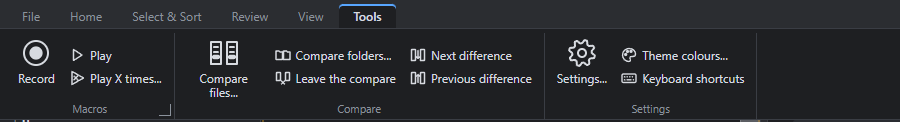
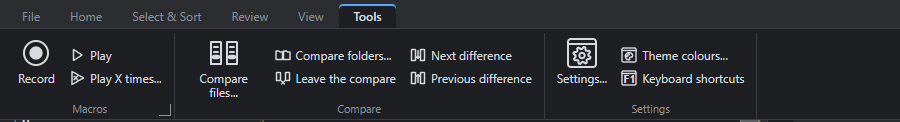
Plan 39: Theme colours is a panel (View > LexPen, Window > Panels); panel buttons framed everywhere; bookmark dot
Claude-Session: https://claude.ai/code/session_011ip4AMjLGVDRBeh8bEWE2k

Changed region(s): [[0.6222, 0.2951, 0.7156, 0.5656], [0.6844, 0.5656, 0.7156, 0.7131]]

diff --git a/docs/plans/39-PLAN-ribbon.md.images/ribbon-icons.js b/docs/plans/39-PLAN-ribbon.md.images/ribbon-icons.js
@@ -25,7 +25,6 @@ window.RIBBON_ICONS = (() => {
   const marked = dim('M2 3.5h12M2 8h12M2 12.5h6') + '<path d="M4 3.5h4M9 8h4M2.5 12.5h3" stroke-width="2.6"/>';
   const eraser = p('M11.6 8.6l3.2 3.2-2.6 2.6h-2l-1.4-1.4zM9.9 10.3l3.2 3.2');
   const sortLines = 'M2 3.5h7M2 7h5M2 10.5h3';
-  const keyboard = '<rect x="1" y="4" width="14" height="8.5" rx="1.5"/>' + [3.6, 6.2, 8.8, 11.4].map(x => dot(x, 6.8)).join('') + dot(3.6, 9.8) + p('M6.2 9.8h3.6') + dot(12.4, 9.8);
   const buttons = {
     // File
     save: ['Save', p('M2.5 2.5h9l2 2v9h-11zM5 2.5v3.5h5.5V2.5M4.5 13.5V9.5h7v4')],
@@ -100,16 +99,13 @@ window.RIBBON_ICONS = (() => {
     compareClose: ['Leave the compare', p('M1.5 2.5h4v8h-4zM10.5 2.5h4v8h-4zM6.5 11l3 3M9.5 11l-3 3')],
     compareNext: ['Next difference', p('M1.5 2.5h4v11h-4zM10.5 2.5h4v11h-4zM8 3.5v8M6 9.5l2 2 2-2')],
     comparePrevious: ['Previous difference', p('M1.5 2.5h4v11h-4zM10.5 2.5h4v11h-4zM8 12.5v-8M6 6.5l2-2 2 2')],
-    settings: ['Settings...', cog],
-    themeColours: ['Theme colours...', p('M8 1.5a6.5 6.5 0 1 0 0 13c1 0 1.5-.7 1.5-1.5s-.6-1.2-.6-2 .7-1.5 1.5-1.5h1.6a2.5 2.5 0 0 0 2.5-2.5C14.5 4 11.6 1.5 8 1.5z') + '<circle cx="4.7" cy="7.5" r=".9" fill="currentColor"/><circle cx="6.5" cy="4.5" r=".9" fill="currentColor"/><circle cx="10" cy="4.3" r=".9" fill="currentColor"/>'],
-    commands: ['Keyboard shortcuts', keyboard],
   };
   // The panels: per panel the drawing for 32 px (at 0.66 in the frame) and one drawn for 16 px in the frame's inside
   // (x 2.7 to 13.3, y 5.2 to 13.3: a pixel from the frame and the title bar), simpler, its lines not scaled.
   const panels = {
     folders: ['Folder', p('M1.5 3.5h4.5l1.5 1.5h7v8.5h-13z'), p('M3.2 6h3l1 1h5.3v5.8H3.2z')],
     searchView: ['Search', mag(6.8, 6.8, 4.5), '<circle cx="7.3" cy="8.6" r="2.6"/>' + p('M9.2 10.5l2.5 2.5')],
-    'bookmarks.pane': ['Bookmarks', p('M4 1.5h8v13l-4-3-4 3z'), p('M4.9 5.8h6.2v7.2L8 10.4 4.9 13z')],
+    'bookmarks.pane': ['Bookmarks', p('M4 1.5h8v13l-4-3-4 3z'), p('M4.9 5.8h6.2v7.2L8 10.4 4.9 13z') + '<circle cx="8" cy="9.4" r=".55" fill="currentColor" stroke="none"/>'],
     'outline.toggle': ['Outline', p('M3 3h5.5M5.5 6.5h6M5.5 10h6M8 13.5h6M3 3v7h2.5M3 6.5h2.5'), p('M3.6 6.2h4M6 9h6M6 12h6M3.6 6.2V12H6M3.6 9H6')],
     'highlight.list': ['Highlights', p(mark + 'M2 14.5h8'), p('M9.5 5.8l2.6 2.6-3.5 3.5H6.2V9.4zM3.4 12.9h5.2')],
     'csv.columns': ['Columns', '<rect x="1.5" y="2.5" width="13" height="11" rx="1"/>' + p('M1.5 6h13M6 2.5v11M10.5 2.5v11'), p('M3.4 8.2h9.2M6.4 5.8v7M9.6 5.8v7')],
@@ -125,6 +121,8 @@ window.RIBBON_ICONS = (() => {
     messages: ['Messages', p('M2 2.5h12v8.5H7.5L4.5 14v-3H2z'), p('M3.4 5.8h9.2v5H8.2l-2.6 2.2v-2.2H3.4z')],
     themesets: ['Theme sets', '<rect x="1.5" y="3.5" width="4" height="9" rx="1"/><rect x="6" y="3.5" width="4" height="9" rx="1" fill="currentColor" fill-opacity=".35"/><rect x="10.5" y="3.5" width="4" height="9" rx="1" fill="currentColor" fill-opacity=".8"/>',
       '<rect x="3.4" y="5.8" width="2.6" height="7" rx=".6"/><rect x="6.7" y="5.8" width="2.6" height="7" rx=".6" fill="currentColor" fill-opacity=".35"/><rect x="10" y="5.8" width="2.6" height="7" rx=".6" fill="currentColor" fill-opacity=".8"/>'],
+    themeColours: ['Theme colours', p('M8 1.5a6.5 6.5 0 1 0 0 13c1 0 1.5-.7 1.5-1.5s-.6-1.2-.6-2 .7-1.5 1.5-1.5h1.6a2.5 2.5 0 0 0 2.5-2.5C14.5 4 11.6 1.5 8 1.5z') + '<circle cx="4.7" cy="7.5" r=".9" fill="currentColor"/><circle cx="6.5" cy="4.5" r=".9" fill="currentColor"/><circle cx="10" cy="4.3" r=".9" fill="currentColor"/>',
+      p('M8 5.6a3.7 3.7 0 1 0 0 7.4c.6 0 .9-.4.9-.9s-.4-.7-.4-1.1.4-.9.9-.9h.9a1.4 1.4 0 0 0 1.4-1.4C11.7 7 10.1 5.6 8 5.6z') + '<circle cx="6.1" cy="9.2" r=".55" fill="currentColor"/><circle cx="7.6" cy="7.4" r=".55" fill="currentColor"/>'],
     projects: ['Projects', p('M1.5 3.5h4.5l1.5 1.5h7v8.5h-13z') + p('M4 9h8'), p('M3.2 6h3l1 1h5.3v5.8H3.2zM5 10.2h6')],
   };
   return { buttons, panels };
@@ -142,14 +140,15 @@ window.iconSvg = (body, size, panel, small) => {
     : frame + `<g transform="translate(2.72 3.97) scale(.66)" style="stroke-width: ${(w / 0.66).toFixed(2)}">${body}</g>`;
   return `<svg viewBox="0 0 16 16" width="${px}" height="${px}" fill="none" stroke="currentColor" stroke-width="${w}" stroke-linecap="round" stroke-linejoin="round">${inner}</svg>`;
 };
-// The icon of a label in the mock: a panel in View's panel groups, else a button ("Line" is Go to line and Select
+// The icon of a label in the mock: a panel's when the label is a panel's, else a button's ("Line" is Go to line and Select
 // line: the group tells).
 window.ribbonIcon = (label, group, size) => {
   const { buttons, panels } = window.RIBBON_ICONS;
-  if (window.PANEL_GROUPS.includes(group) || (group === 'Macros' && window.RIBBON_GROUP_TAB === 'View')) {
-    const hit = Object.values(panels).find(([l]) => l === label);
-    if (hit) return window.iconSvg(hit[1], size, true, hit[2]);
-  }
+  // A button that opens a panel is the panel's icon wherever it is (Tools: Settings..., Keyboard shortcuts, Theme
+  // colours...); the label without its dots. Macros is a panel in View only (in Tools a group of buttons).
+  const name = label.replace(/\.\.\.$/, '');
+  const panel = Object.values(panels).find(([l]) => l === name);
+  if (panel && (name !== 'Macros' || window.RIBBON_GROUP_TAB === 'View')) return window.iconSvg(panel[1], size, true, panel[2]);
   const hit = Object.entries(buttons).filter(([, [l]]) => l === label);
   const pick = hit.length > 1 ? hit.find(([k]) => group === 'Go to' ? k === 'goToLine' : k !== 'goToLine') : hit[0];
   return pick ? window.iconSvg(pick[1][1], size, false) : null;

diff --git a/docs/plans/39-PLAN-ribbon.md b/docs/plans/39-PLAN-ribbon.md
@@ -70,7 +70,7 @@ divider. "Corner": the action of the group's corner icon.
 | The document | Outline + Highlights + Columns (CSV) |
 | Editing | Characters + Clipboards + Sort |
 | Macros | Macros + Step by step |
-| LexPen | Settings + Keyboard shortcuts + Messages / Theme sets + Projects (Manage projects) |
+| LexPen | Settings + Keyboard shortcuts + Messages / Theme sets + Theme colours + Projects (Manage projects) |
 | Window | Zoom in + Zoom out + Zoom 100% / divider / Day (large) / Night (large) |
 
 **Tools**
@@ -93,12 +93,13 @@ divider. "Corner": the action of the group's corner icon.
   closes by its X or Esc in its field.
 - **The panels**: View has every panel of Window > Panels, in its groups and order (Files and finding, The
   document, Editing, Macros, LexPen), each a show / hide toggle as there; a panel added later joins its group in both.
+  Theme colours (plan 41's window) is a panel too: it joins Window > Panels' LexPen group, after Theme sets.
 - **Manage ...**: every Manage (clipboards, bookmarks, macros) and the other managers (the Highlights window, the stored
   sorts, the Occurrences bar) are a group's corner icon, not a button.
 - **Editor and Preview** are not on Home: they are the switches at the window's top right, and View > Document.
 - **Day / Night**: the two values of Day / night, each its own button, the current one pressed.
 - **Width**, measured in a mock (a test copy, LexPen's own font and the Dark theme, group names on, the icons of
-  3.4, a 1264 px wide window): File 239 px, Home 1104 px, Select & Sort 507 px, Review 146 px, View 1204 px, Tools
+  3.4, a 1264 px wide window): File 239 px, Home 1104 px, Select & Sort 507 px, Review 146 px, View 1222 px, Tools
   758 px. Home's groups: Edit 216, Lines 96, Clipboard 156, Find 279, Occurrences 75, Go to 98, Bookmarks 179; the
   ribbon 120 px high with its tabs. Every tab fits that window; a narrower one sends Home's right end into the ">>"
   menu.
@@ -177,7 +178,8 @@ Sort, Highlights and Macros); Home also in the light theme:
   eraser in its corner; Sort again is Sort...'s lines with a circular arrow where its arrow down is; Play X times is
   Play with an X inside.
 - **Panels**: a panel's icon is a small window (a frame with a title bar) with the panel's drawing inside, so a
-  panel button reads as "a window opens". At 32 px the drawing is the panel's own at 0.66; at 16 px a simpler one
+  panel button reads as "a window opens"; a button that opens a panel has the panel's icon wherever it stands
+  (Tools: Settings..., Theme colours..., Keyboard shortcuts). At 32 px the drawing is the panel's own at 0.66; at 16 px a simpler one
   drawn for that size, about a pixel from the frame (shrinking the large one leaves too little). Keyboard shortcuts as
   a panel shows "F1"; Messages is an empty balloon.
 - An action without an icon (one added later through Customize) shows a box with its first letter until it gets one.
